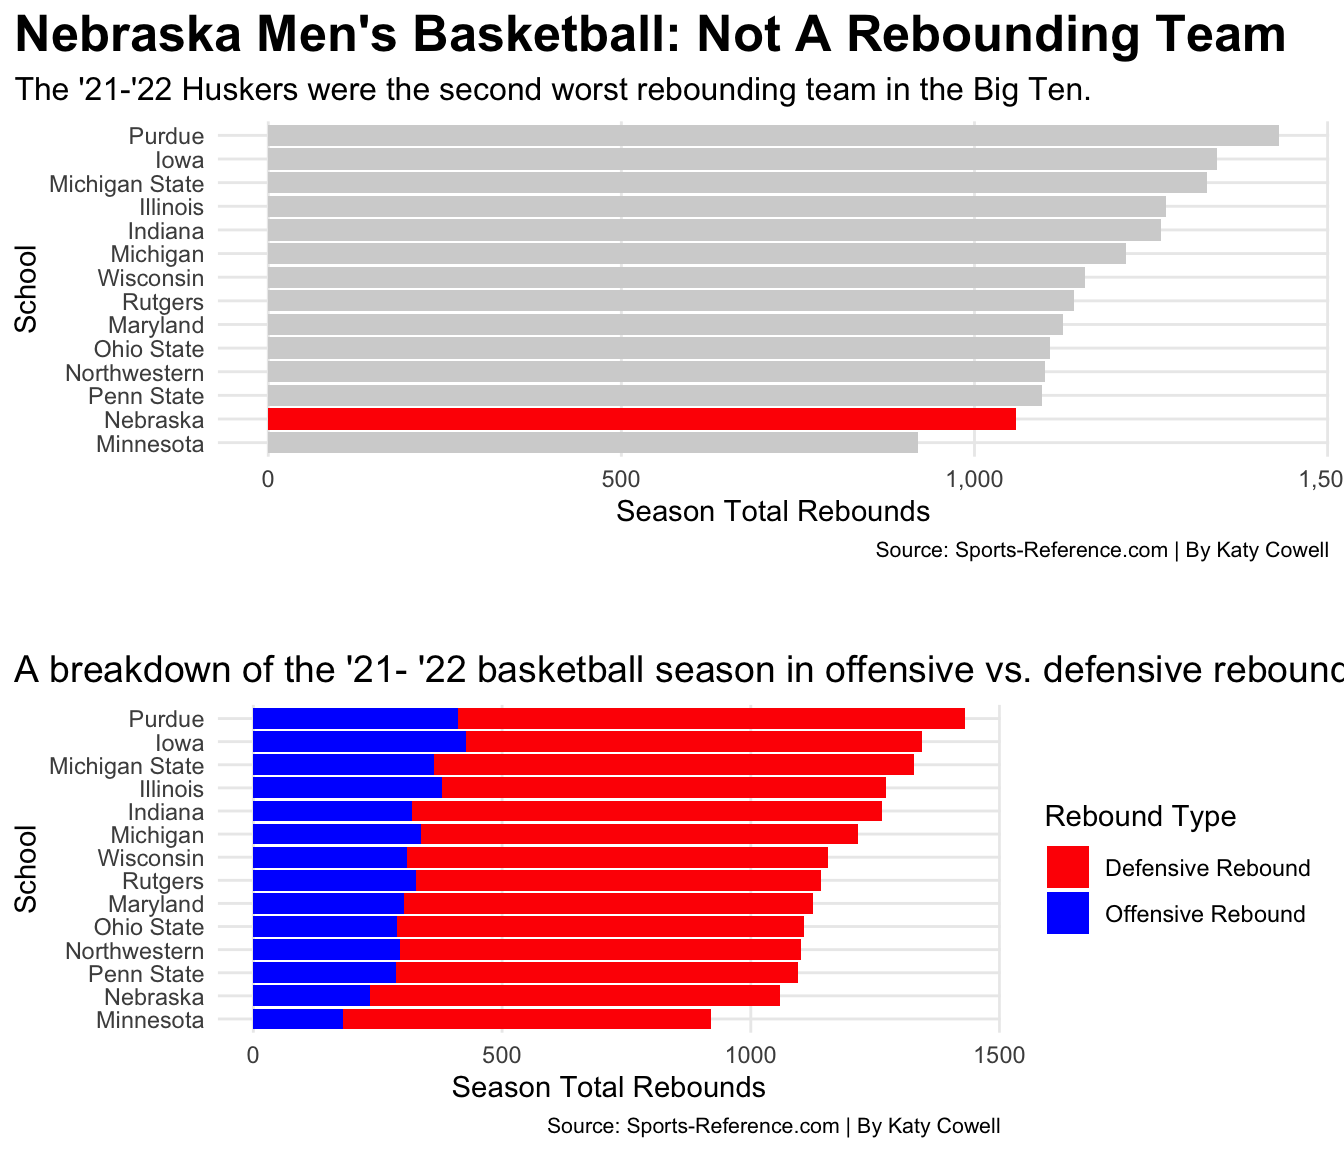
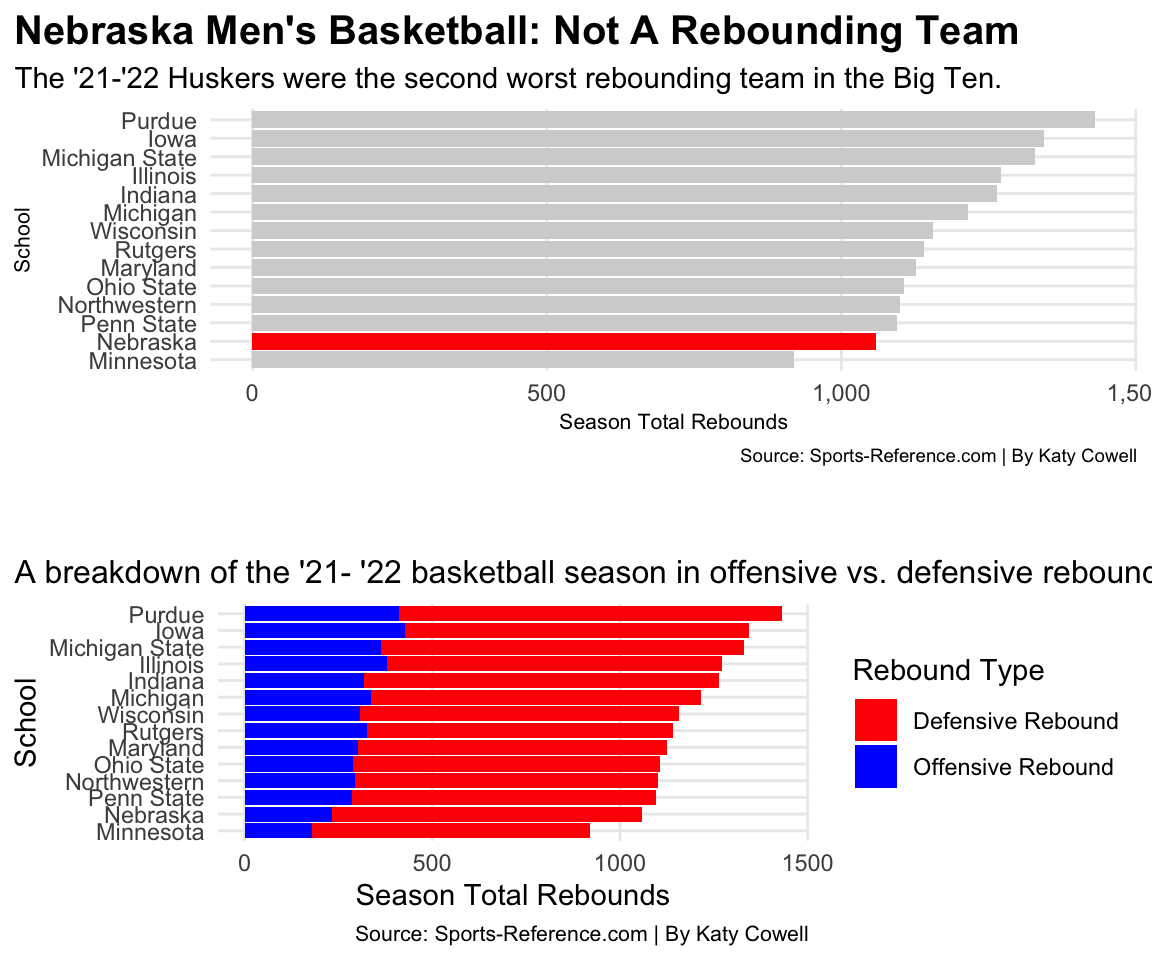
size idk what is happening

diff --git a/2022/04/10/nebraskas-eleven-million-dollar-question/index.html b/2022/04/10/nebraskas-eleven-million-dollar-question/index.html
@@ -75,7 +75,7 @@
 <p>There were $18.5 million reasons for him to stay, but public pressure and a not so pretty track record led to a restructured contract that reduced Hoiberg’s buyout to only $11 million.</p>
 <p>Back for a fourth season, what does Fred Hoiberg need to do to win in the Big Ten?</p>
 <p>Game statistics from Sports Reference can help answer this question.</p>
-<p><img src="/2022/04/10/nebraskas-eleven-million-dollar-question/index_files/figure-html/unnamed-chunk-9-1.png" width="672" /></p>
+<p><img src="/2022/04/10/nebraskas-eleven-million-dollar-question/index_files/figure-html/unnamed-chunk-9-1.png" width="576" /></p>
 <p>Rebounding.</p>
 <p>Rebounds provide another scoring opportunity, and to put it simply, the Huskers were not the best. Minnesota saved Nebraska from being the worst rebounding team in the Big Ten and also gave them their first conference win.</p>
 <p>How nice of the Golden Gophers.</p>
@@ -86,7 +86,7 @@
 <p>Continuing to focus on effort-based plays, hustle statistics look at steals and blocks.</p>
 <p>Alonzo Verge Jr. ranked third in the conference with 1.6 steals a game. And thanks to Verge, Nebraska holds its own with the Big Ten Champions, Iowa, when it comes to steals. Just 34 steals separated Nebraska in second place behind Iowa.</p>
 <p>Blocks are a different story; maybe that’s something to work on in practice. (Write that down Fred.)</p>
-<p><img src="/2022/04/10/nebraskas-eleven-million-dollar-question/index_files/figure-html/unnamed-chunk-16-1.png" width="672" /></p>
+<p><img src="/2022/04/10/nebraskas-eleven-million-dollar-question/index_files/figure-html/unnamed-chunk-16-1.png" width="960" /></p>
 <p>Shooting.</p>
 <p>What was hyped up in the preseason to be a team full of “shooters,” the Nebraska offense boosted by 5-star recruit, Bryce McGowens, still fell short.</p>
 <p>Below average in field goals and three-pointers, the Huskers couldn’t seem to get a consistent offense going last year. Nebraska shot more than most of the Big Ten but had a little less than a 50/50 chance of making their shots. Those odds dramatically decrease when looking at three-pointers. Nebraska attempted 701 3-point shots and made only 224 of them.</p>
